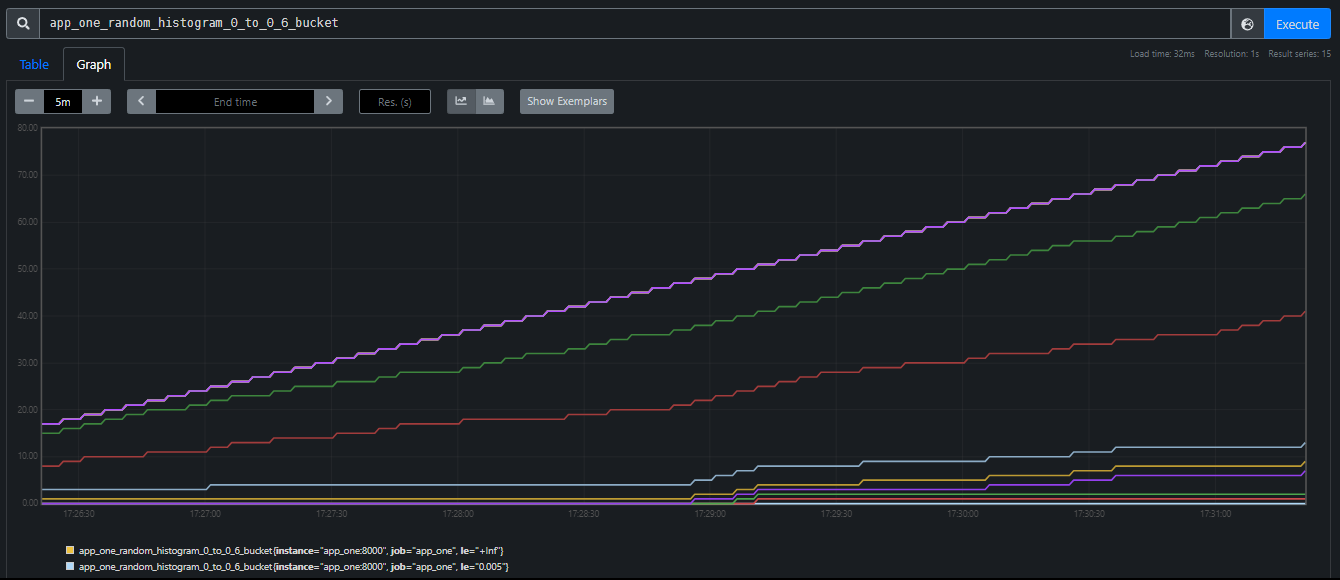
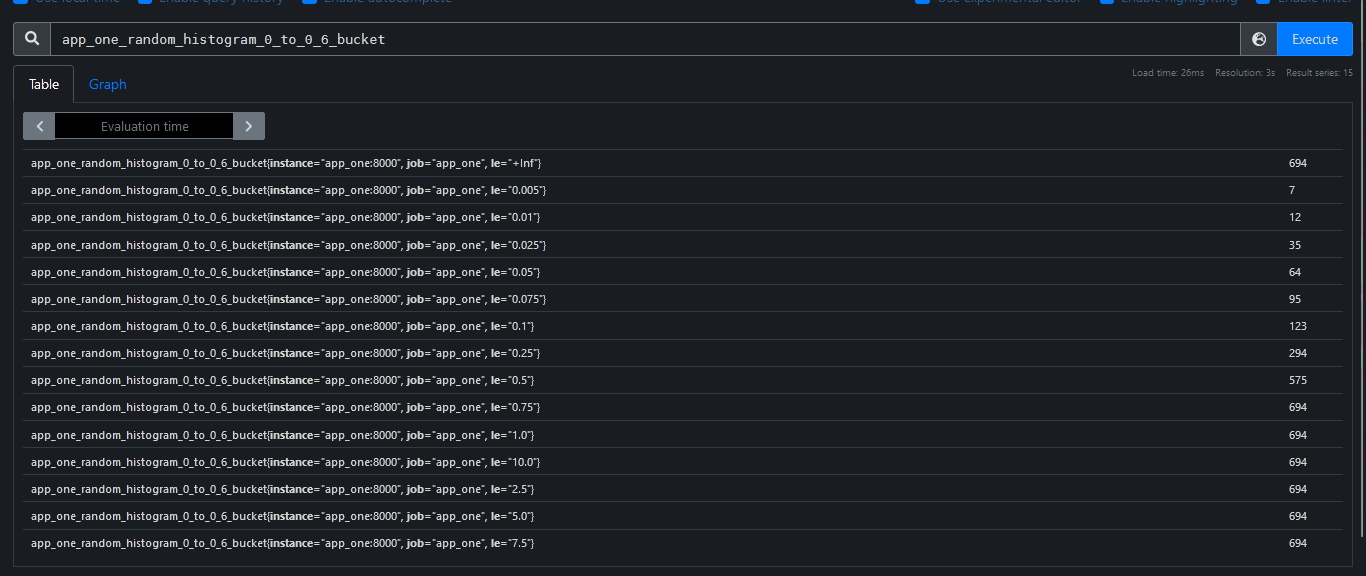
lab2

diff --git a/lab-2/README.md b/lab-2/README.md
@@ -61,23 +61,32 @@ Stop the demo cluster: `./bin/stop`
     demo_gauge
 ![](./screenshots/prometheus_demo_gauge_15.png)
 
-    db_backup_last_completion_timestamp_seconds
-!['db_backup'](./screenshots/prom_db_backup.png)
+    go_gc_duration_seconds_count
+![Alt text](./screenshots/go_gc_duration_seconds_count.png)
+![Alt text](./screenshots/go_gc_duration1.png.png)
+![Alt text](./screenshots/go_gc_duration_seconds_count_node_exporter.png)
+![Alt text](./screenshots/go_gc_duration_seconds_count_node.png)
+
+    go_gc_duration_seconds_sum
+![Alt text](./screenshots/go_gc_duration_seconds_sum.png)
+![Alt text](./screenshots/go_gc_duration_seconds_sum_graph.png)
+![Alt text](./screenshots/go_gc_duration_seconds_sum_postgres.png)
 
     go_gc_duration_seconds
 ![Alt text](./screenshots/go_gc_duration_seconds.png)
+![Alt text](./screenshots/go_gc_duration_seconds_node_exporter.png)
+![Alt text](./screenshots/go_gc_duration_seconds_node_exporter_q75.png)
+![Alt text](./screenshots/go_gc_duration_seconds_node_exporter_q1.0.png)
 
-    go_goroutines
-![Alt text](./screenshots/prom_go_routine.png)
+    go_memstats_alloc_bytes
+![Alt text](./screenshots/go_memstats_alloc_bytes_metric.png)
+![Alt text](./screenshots/go_memstats_alloc_bytes_graph.png)
+![Alt text](./screenshots/go_memstats_alloc_bytes_node_exporter.png)
+![Alt text](./screenshots/go_memstats_alloc_bytes_postgres.png)
+![Alt text](./screenshots/go_memstats_alloc_bytes_push_gateway.png)
 
-    go_memstats_heap_alloc_bytes
-![Alt text](./screenshots/go_memstats_heap_alloc_bytes.png)
-
-    process_cpu_seconds_total
-![Alt text](./screenshots/prom_cpu.png)
-
-    process_resident_memory_bytes
-![Alt text](./screenshots/prom_memory.png)
+    rate(go_gc_duration_seconds_count[5m])
+![Alt text](./screenshots/go_gc_duration_seconds_count_5m.png)
 
 #### 5. Grafana Dashboard
 !['grafana Dashboard'](./screenshots/grafana_dashboard.png)
@@ -103,11 +112,17 @@ Stop the demo cluster: `./bin/stop`
 2. Implement the metrics by running docker compose
 ![Alt text](./screenshots/docker_compose.png)
 ![Alt text](./screenshots/new_metrics.png)
-![Alt text](./screenshots/histogram_bucket.png)
+
+![Alt text](./screenshots/prometheus_new_metrics.png)
+![Alt text](./screenshots/random_histogram.png)
 ![Alt text](./screenshots/app_one_random_histogram_0_to_1_sum.png)
-![Alt text](./screenshots/app_one_random_histogram_0_to_0_6_bucket.png)
+    app_one_random_gauge_0_and_1
+![Alt text](./screenshots/app_one_random_gauge_0_and_1.png)
+![Alt text](./screenshots/app_one_random_histogram_0_to_0_6_bucket_mtric.png)
+
 
 3. Add custom panels in the Grafana dashboard to visualize
+![Alt text](./screenshots/Grafana_dashboards.png)
 ![Alt text](./screenshots/dashboard_1.png)
 ![Alt text](./screenshots/app_one_gauge_0_to_1.png)
 ![Alt text](./screenshots/app_one_gauge_0_to_0_6.png)
